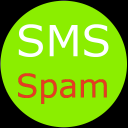
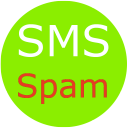
test

Changed region(s): [[0.0, 0.0, 1.0, 1.0]]

diff --git a/icons/index.php b/icons/index.php
@@ -9,7 +9,8 @@ function thumb ($s) {
 	$thumb = imagecreatetruecolor($s, $s);
 	$source = 0;
 	$source = @imagecreatefrompng($filename);
-	
+	imagealphablending($thumb, false);	
+	imagesavealpha($thumb, true);
 	imagecopyresampled($thumb, $source, 0, 0, 0, 0, $s, $s, 512, 512);
 //	header("Content-Type: image/jpeg");
 	imagepng($thumb,$s.".png");
